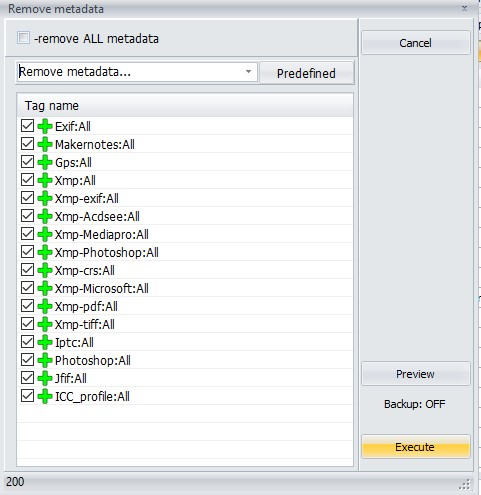
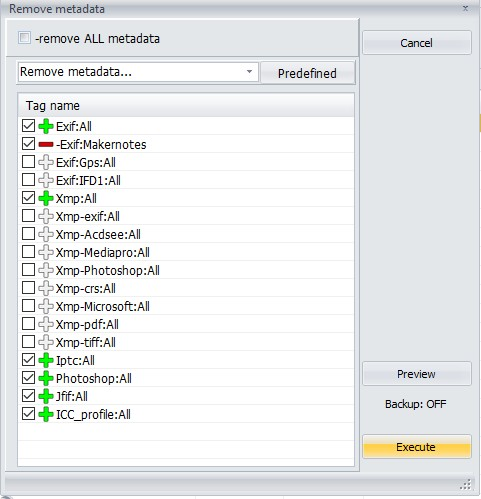
Fix Issues for V6.3.5
#482

diff --git a/Docs/ExifToolGUI_V635.md b/Docs/ExifToolGUI_V635.md
@@ -687,13 +687,28 @@ This will fill <font class="brown">Exif:LensInfo</font> of selected file(s) with
 <br>
 
 <h3>Remove metadata</h3>
+<br>
 <img src="ExifToolGUI_V635_files/removemetadata.jpg"><br>
 <br>
-Note, that in some cases (depending on the image file format), it's not 
-possible/safe to remove the metadata you've selected to remove. In such 
-cases, ExifTool will simply refuse to remove such metadata (also see <font class="blue">Ignore minor errors in metadata</font> menu above).<br>
+Notes:
+<li>A <b>Grayed</b> Plus or Minus means the tag is <b>not selected</b> for processing.</li>
+<li>A <b>Green Plus</b> means the Tag is <b>selected</b> for processing and the tag will be deleted</li>
+<li>A <b>Red Minus</b> means the Tag is <b>excluded</b> for processing and the tag will not be deleted</li>
+<br><ul>
+Technically: For every Tag selected a - (minus) is prefixed and a = (equal) suffixed and passed to ExifTool. <br>
+A Tag name that begins with a - (minus) will result in -- (2 minus) and function as an exclusion.<br>
+The selection in the screenshot would result in:<br>
+<pre>-Exif:all= --Exif:Makernotes= -Xmp:all= -Iptc:All= -PhotoShop:All= -Jfif:All= -ICCprofile=</pre>
+</ul>
+<li>To verify your selection use the <b>Preview</b> button.</li>
+<li>Your selection (The tags that you have checked) will be remembered and proposed next time.</li>
+<li>In some cases (depending on the image file format), it's not possible/safe to remove the metadata you've selected to remove.<br>
+In such cases, ExifTool will simply refuse to remove such metadata (also see <font class="blue">Ignore minor errors in metadata</font> menu above).<br></li>
 <br>
-See also: <a href="#p_metadataenhancement">Managing metadata enhancements</a><br>
+See also:<br>
+<a href="#p_metadataenhancement">Managing metadata enhancements</a> how you can customize the predefined lists and tags.<br>
+<a href="https://exiftool.org/exiftool_pod.html#Tag-operations">Tag-operations</a> ExifTool documentation on Tags.<br>
+<br>
 
 <h3>Update City, Province, Country from GPS coordinates</h3>
 This option can update the location info (Country, Province and City) for the selected files.<br>
@@ -833,7 +848,7 @@ A mask can contain literal characters, or special characters like *, [-] or ?.<b
 <br>
 
 <b>Sample file filters</b>:<br>
-<table>
+<table border="1">
 <tr><td>Typical usage</td><td>*.jpg;*.mp4</td><td>Show Jpg and mp4 in current folder</td></tr>
 <tr><td></td><td>*.jpg;*.mp4;/s</td><td>Show Jpg and mp4 in sub folders</td></tr>
 <tr><td>All Files</td><td>*.*;/s</td><td>Time consuming!</td></tr>
@@ -868,15 +883,16 @@ All other functions, including ExifTool Direct, Metadata panel, OSM panel work a
 <li>
 In thumbnail mode the sort order is always Folders first, followed by files. The relative name is used for sorting.<br>
 This can not be changed.<br>
-Relative name = The name relative to the currently selected path.<br>
+Relative name = The name relative to the currently selected path. (E.G. subdir1\subdir2\file1.jpg)<br>
 </li><br>
 <li>
 In detail mode you can use column sorting.<br>
 But beware of the performance considerations combined with subfolders containing many files.<br>
 <ul>
-<li>Standard file list. This works relatively fast on all columns.<br><br></li>
+<li>Standard file list.<br>
+This works relatively fast on all columns.<br><br></li>
 
-<li>Camera details, Location info, About photo.
+<li>Camera details, Location info, About photo.<br>
 When sorting is active on Filename this is also relatively fast.<br>
 Sorting on other columns force GUI to get the details of all files selected, this will be much slower.<br>
 Even more if you have enabled <b>Use exiftool for unsupported files</b> in <b>preferences</b>.<br>
